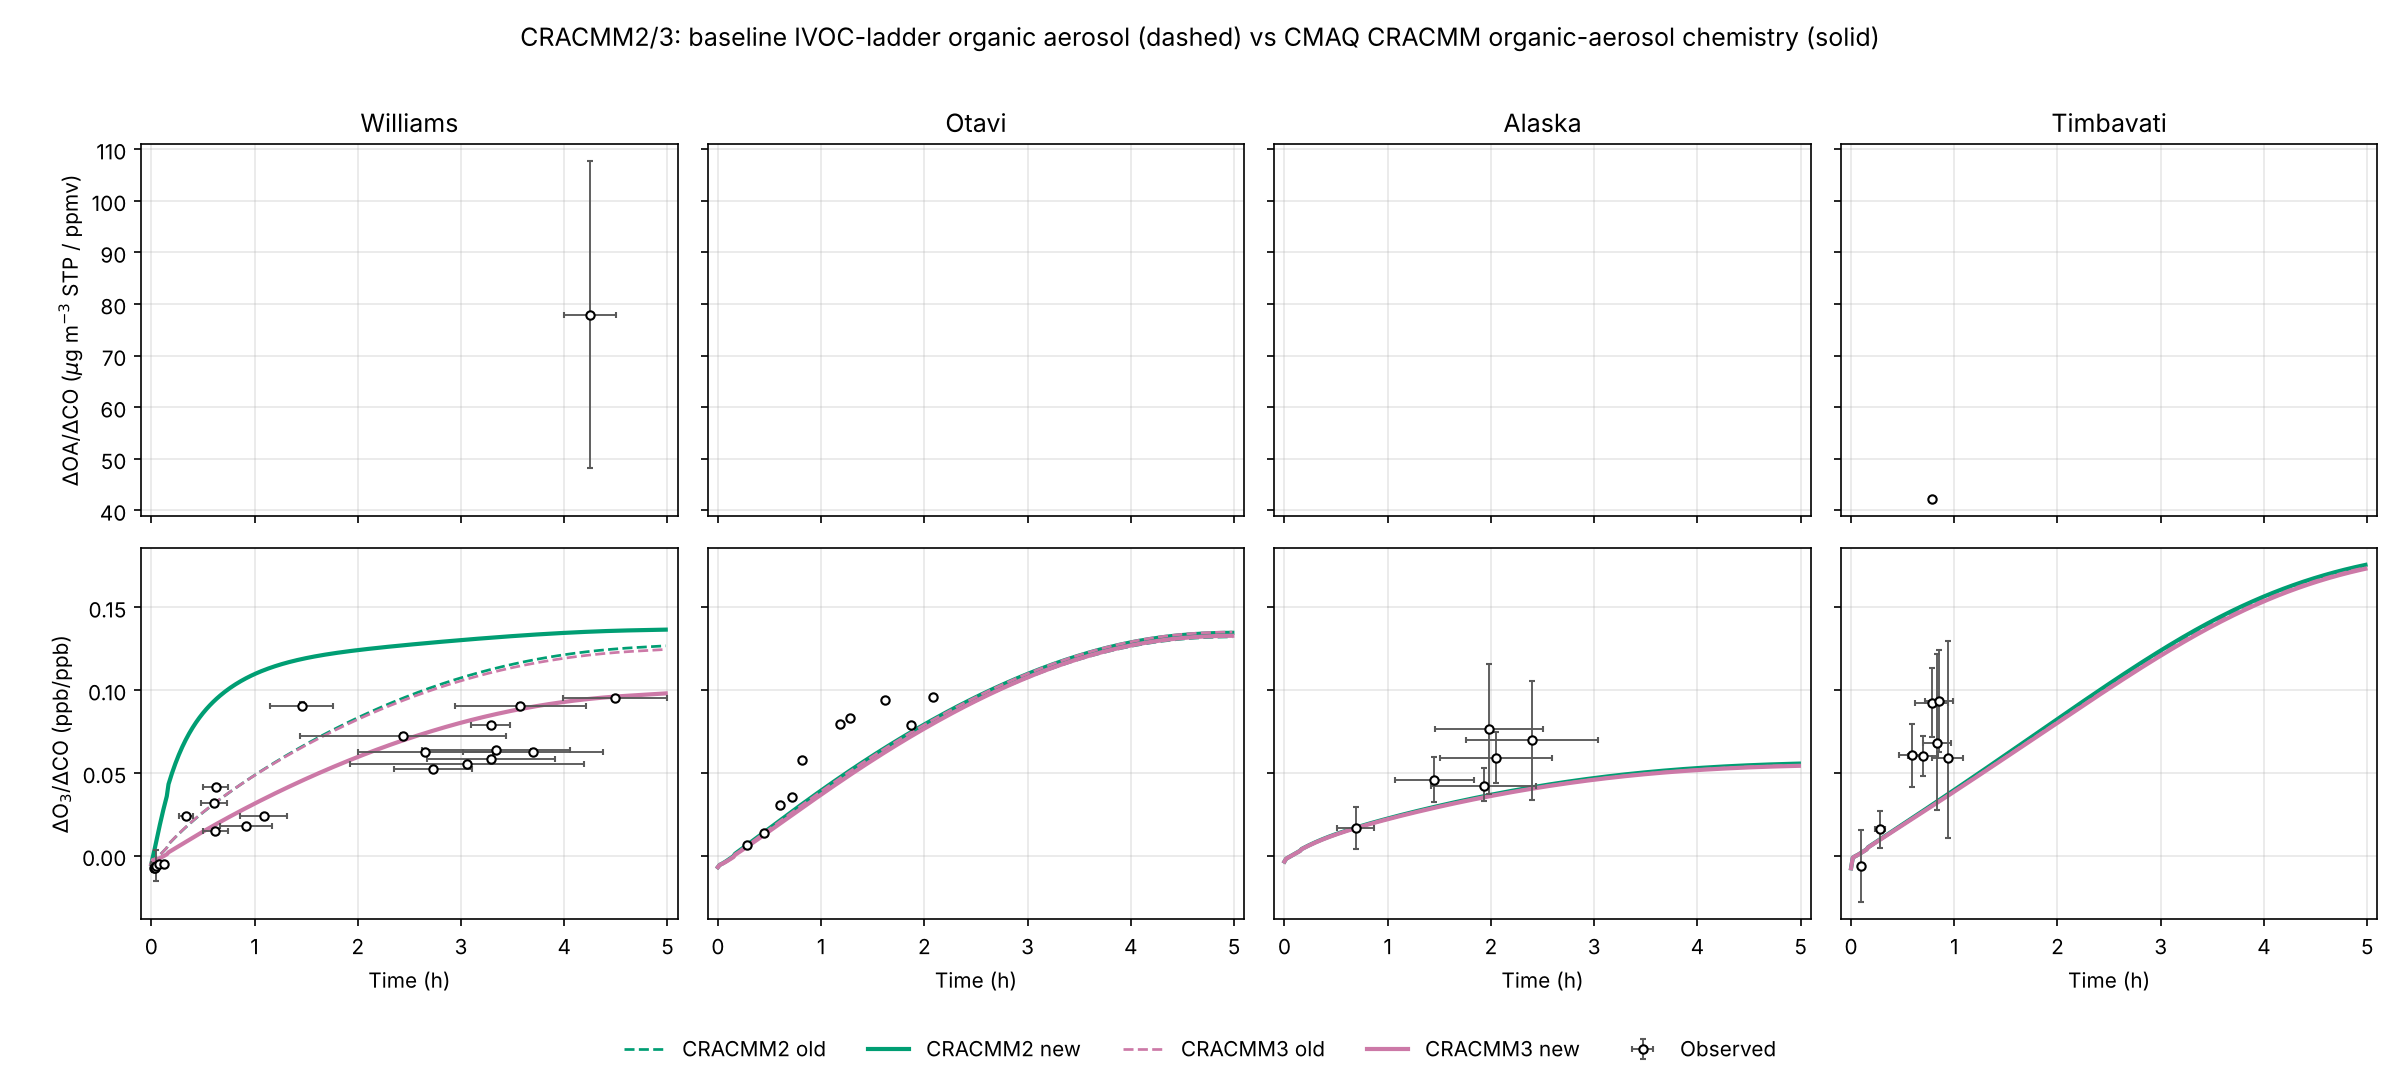
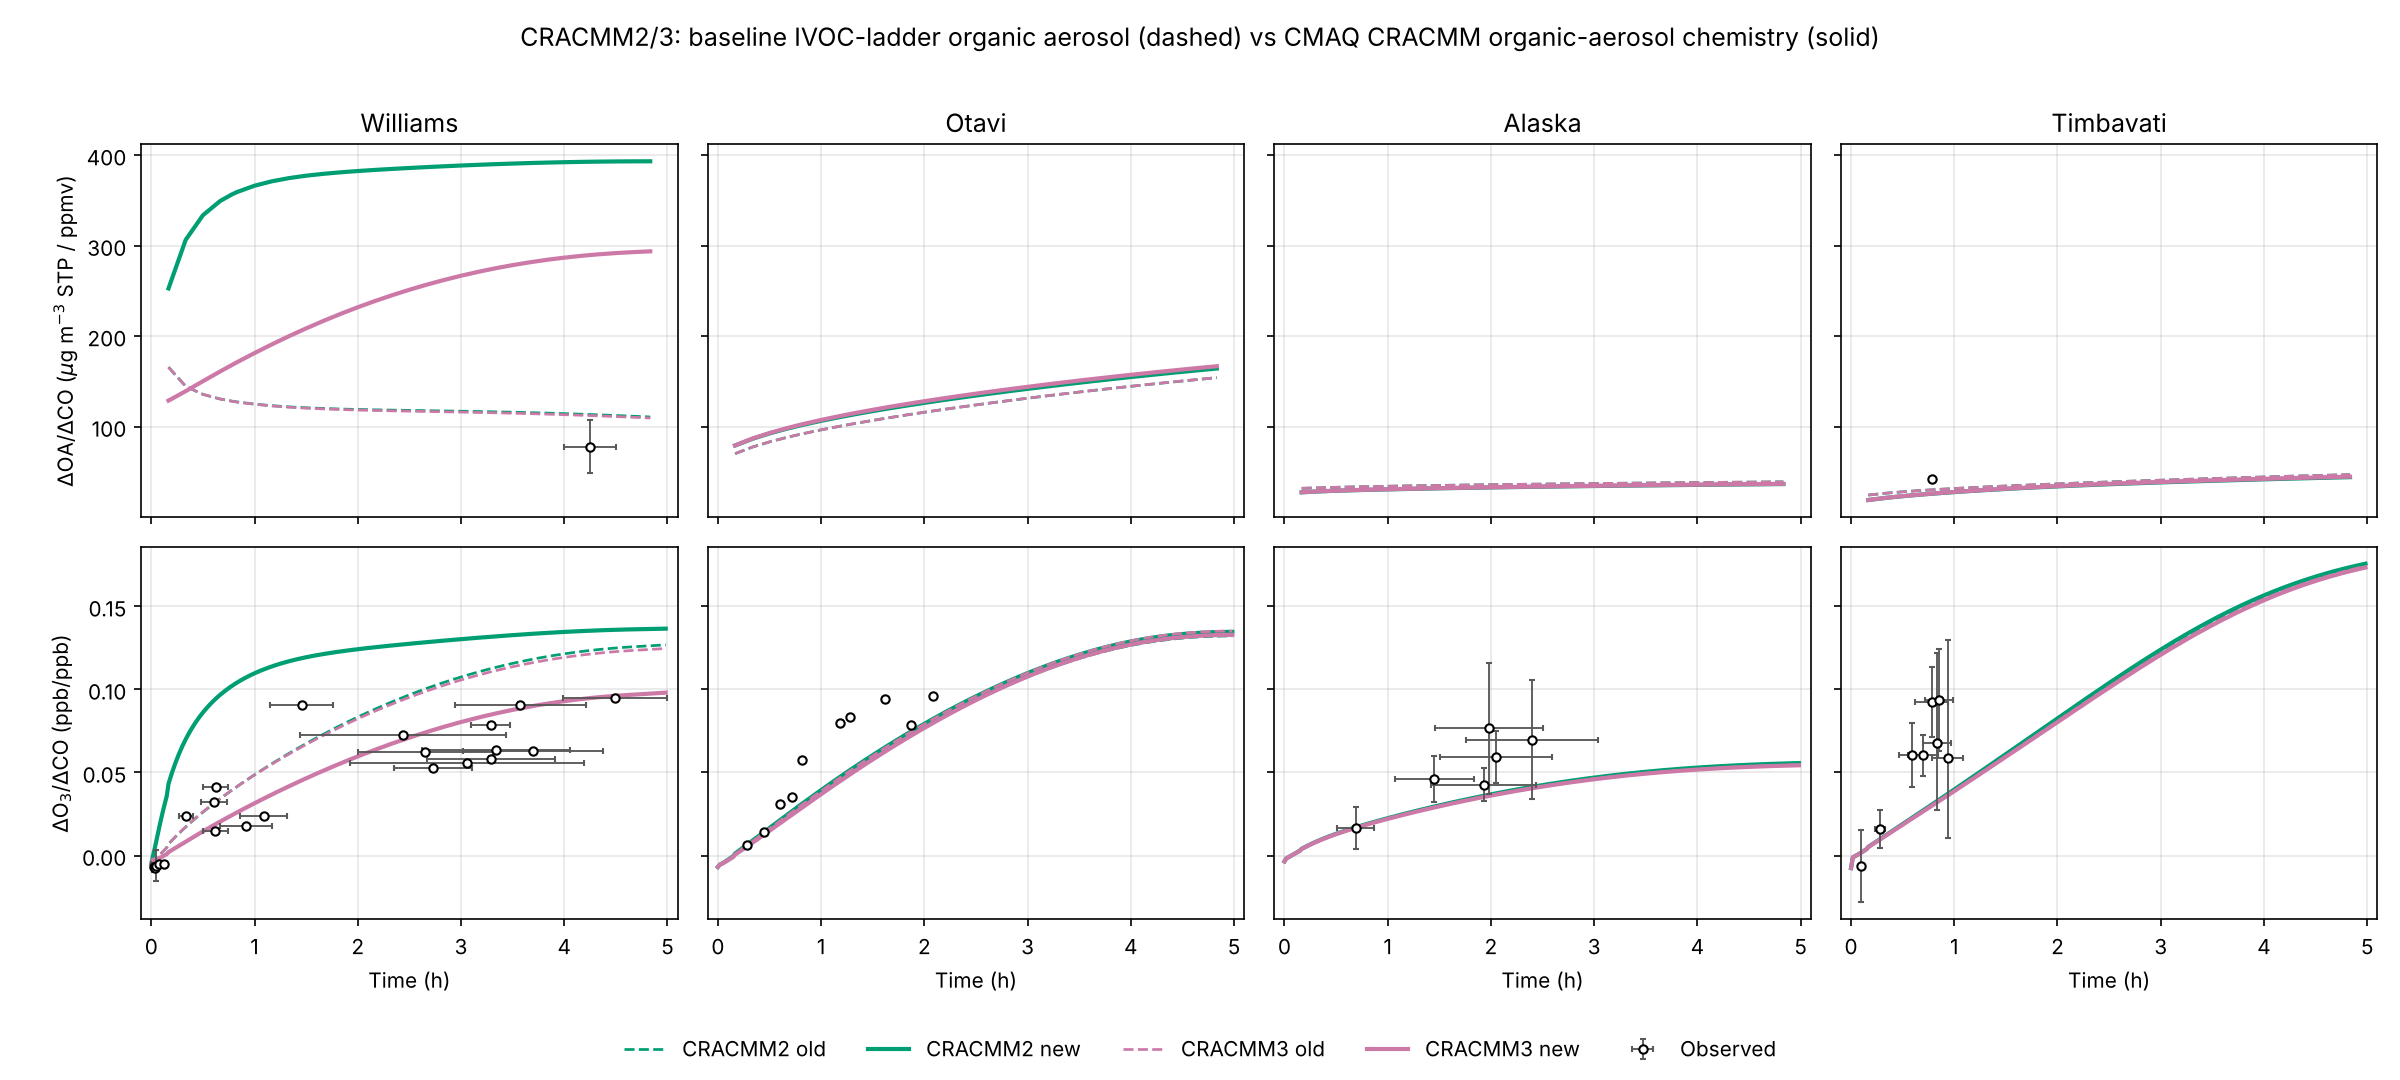
compare_cmaq_oa: SizeDist times are minutes (fix empty OA panels and 5 h table)
Claude-Session: https://claude.ai/code/session_01NKWstewGfixjYpUH8jReac

diff --git a/CB6r5Translation/compare_cmaq_oa.py b/CB6r5Translation/compare_cmaq_oa.py
@@ -24,7 +24,7 @@ def oa_series(run):
         L = [l.rstrip('\n') for l in open(f) if l.strip()]
         i = L[0].index('TotOA') // 13
         for l in L[1:]:
-            try: t = float(l[0:13]); v = float(l[i * 13:(i + 1) * 13])
+            try: t = 60.0 * float(l[0:13]); v = float(l[i * 13:(i + 1) * 13])
             except ValueError: continue
             tot[t] = tot.get(t, 0.0) + v
     t = np.array(sorted(tot)); return t, np.array([tot[x] for x in t])
